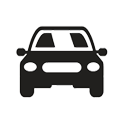
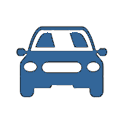
添加时序图样式，更改图片，配色

Changed region(s): [[0.125, 0.225, 0.9, 0.825]]

diff --git a/RadiationVis/frontend/src/components/TimeSeriesChart.vue b/RadiationVis/frontend/src/components/TimeSeriesChart.vue
@@ -338,15 +338,15 @@ export default {
         _this.addX(g, xAxis, margin, chartWidth, chartHeight);
         // _this.addY(g, yAxis, margin, chartWidth, chartHeight);
         _this.addLegend(g, chartWidth);
-        _this.drawPathAndArea(g, static_data, x, y, "rgba(255,182,193, 0.8)");
-        _this.drawPathAndArea(g, mobile_data, x, y, "rgba(127, 127, 255, 0.8)");
+        _this.drawPathAndArea(g, static_data, x, y, "rgba(196, 60, 48, 0.8)");
+        _this.drawPathAndArea(g, mobile_data, x, y, "rgba(54,95,139, 0.8)");
         _this.drawBaseline(g, basedata, x, y);
       } else {
         if(this.checkedItem[0] == 'static') {
           _this.addX(g, xAxis, margin, chartWidth, chartHeight);
           _this.addY(g, yAxis, margin, chartWidth, chartHeight);
           // _this.addLegend(g, chartWidth);
-          _this.drawPathAndArea(g, static_data, x, y, "rgba(255,182,193, 0.8)");
+          _this.drawPathAndArea(g, static_data, x, y, "rgba(196, 60, 48, 0.8)");
           // _this.drawPathAndArea(g, mobile_data, x, y, "mobile_uncertainty");
           _this.drawBaseline(g, basedata, x, y);
         } else if(this.checkedItem[0] == 'mobile') {
@@ -354,7 +354,7 @@ export default {
           _this.addY(g, yAxis, margin, chartWidth, chartHeight);
           // _this.addLegend(g, chartWidth);
           // _this.drawPathAndArea(g, static_data, x, y, "static_uncertainty");
-          _this.drawPathAndArea(g, mobile_data, x, y, "rgba(127, 127, 255, 0.8)");
+          _this.drawPathAndArea(g, mobile_data, x, y, "rgba(54,95,139, 0.8)");
           _this.drawBaseline(g, basedata, x, y);
         }
       }
@@ -406,13 +406,17 @@ export default {
 }
 
 .times_series_chart >>> .mobile_uncertainty {
-  fill: rgba(127, 127, 255, 0.8);
-  stroke: rgba(96, 96, 255, 0.8);
+  //fill: rgba(127, 127, 255, 0.8);
+  //stroke: rgba(96, 96, 255, 0.8);
+  fill: #41709e;
+  stroke: #385e8a;
 }
 
 .times_series_chart >>> .static_uncertainty {
-  fill: rgba(255,182,193, 0.8);
-  stroke: rgba(255,182,193, 0.8);
+  //fill: rgba(255,182,193, 0.8);
+  //stroke: rgba(255,182,193, 0.8);
+  fill: #d33b33;
+  stroke: #a04434;
 }
 
 .times_series_chart >>> .median-line,

diff --git a/RadiationVis/frontend/src/components/SidTrendChart.vue b/RadiationVis/frontend/src/components/SidTrendChart.vue
@@ -80,7 +80,7 @@ export default {
           begin = new Date(this.defaultTimeRange.begintime);
           end = new Date(this.defaultTimeRange.endtime);
         }
-
+        console.log(this.originData)
         let max = d3.max(this.originData.data, d => d.upper95);
 
         let x, y;
@@ -201,17 +201,38 @@ export default {
         .attr('cy', (d, i) => y(d.avg))
         .attr('r', 1);
 
+      var a = this.originData.data.category
       g.append('path')
         .attr('d', upperInnerArea)
-        .style('fill', 'steelblue')
+        .style('fill', (d) =>{
+        if (this.originData.category =='static')
+            return "#c43c2f"
+        else
+            return "#385e8a"
+        })
         .style("opacity", 0.5)
-        .style('stroke', 'steelblue');
+        .style('stroke', (d) => {
+        if (this.originData.category =='static')
+            return "#c43c2f"
+        else
+            return "#385e8a"
+        });
 
       g.append('path')
         .attr('d', lowerInnerArea)
-        .style('fill', 'steelblue')
+        .style('fill', (d) => {
+        if (this.originData.category =='static')
+            return "#c43c2f"
+        else
+            return "#385e8a"
+        })
         .style("opacity", 0.5)
-        .style('stroke', 'steelblue');
+        .style('stroke', (d) => {
+        if (this.originData.category =='static')
+            return "#c43c2f"
+        else
+            return "#385e8a"
+        });
         
 
       g.append('path')

diff --git a/RadiationVis/backend/dataprocessing/cluster_dtw.py b/RadiationVis/backend/dataprocessing/cluster_dtw.py
@@ -1214,5 +1214,5 @@ class TestDTW:
 if __name__ == "__main__":
     # TestDTW.test_cluster_effect_agg()
     # tree = TestDTW.static_mobile_cluster('2020-04-10 22:00:00', '2020-04-10 23:00:00')
-    # tree = TestDTW.static_cluster('2020-04-10 04:00:00', '2020-04-10 10:00:00')
-    tree = TestDTW.mobile_cluster('2020-04-10 04:00:00', '2020-04-10 10:00:00')
+    tree = TestDTW.static_cluster('2020-04-08 06:34:02', '2020-04-08 22:12:12')
+    # tree = TestDTW.mobile_cluster('2020-04-10 04:00:00', '2020-04-10 10:00:00')

diff --git a/RadiationVis/RadiationVis/settings.py b/RadiationVis/RadiationVis/settings.py
@@ -81,9 +81,9 @@ DATABASES = {
         # 'ENGINE': 'django.db.backends.sqlite3',
         # 'NAME': os.path.join(BASE_DIR, 'db.sqlite3'),
         'ENGINE': 'django.db.backends.mysql',
-        'NAME': 'vast2019copy',
+        'NAME': 'vast2019',
         'USER': 'root',
-        'PASSWORD': '123456',
+        'PASSWORD': 'root',
         'HOST': '127.0.0.1',
         'PORT': '3306'
     }
